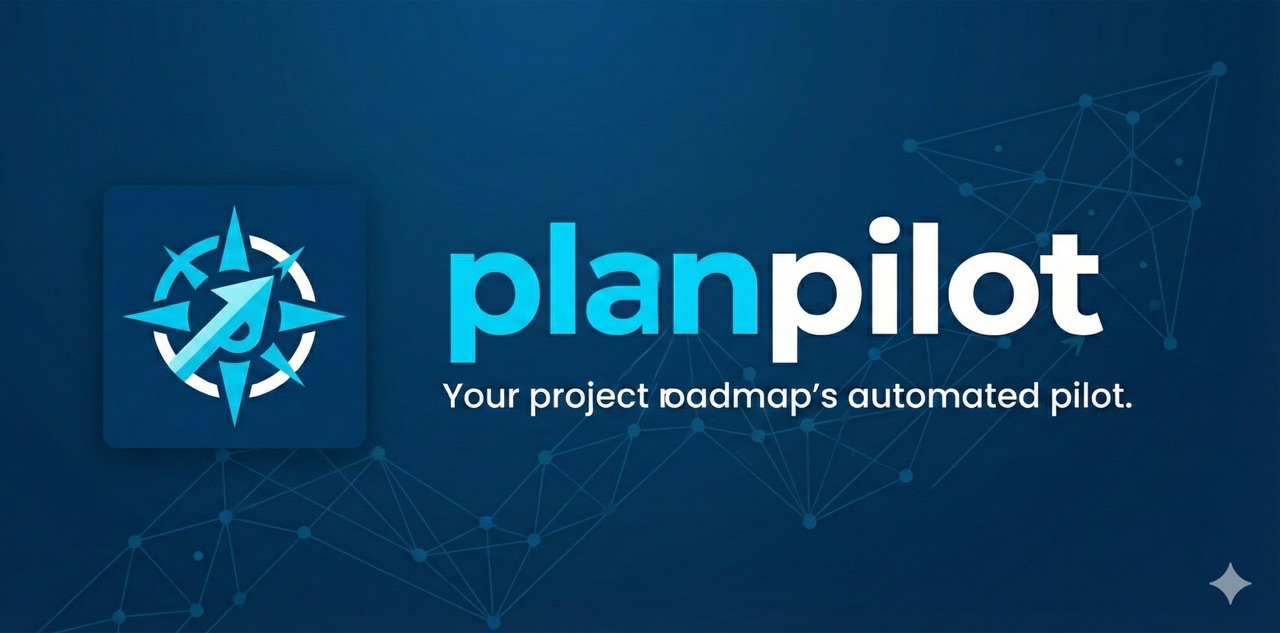
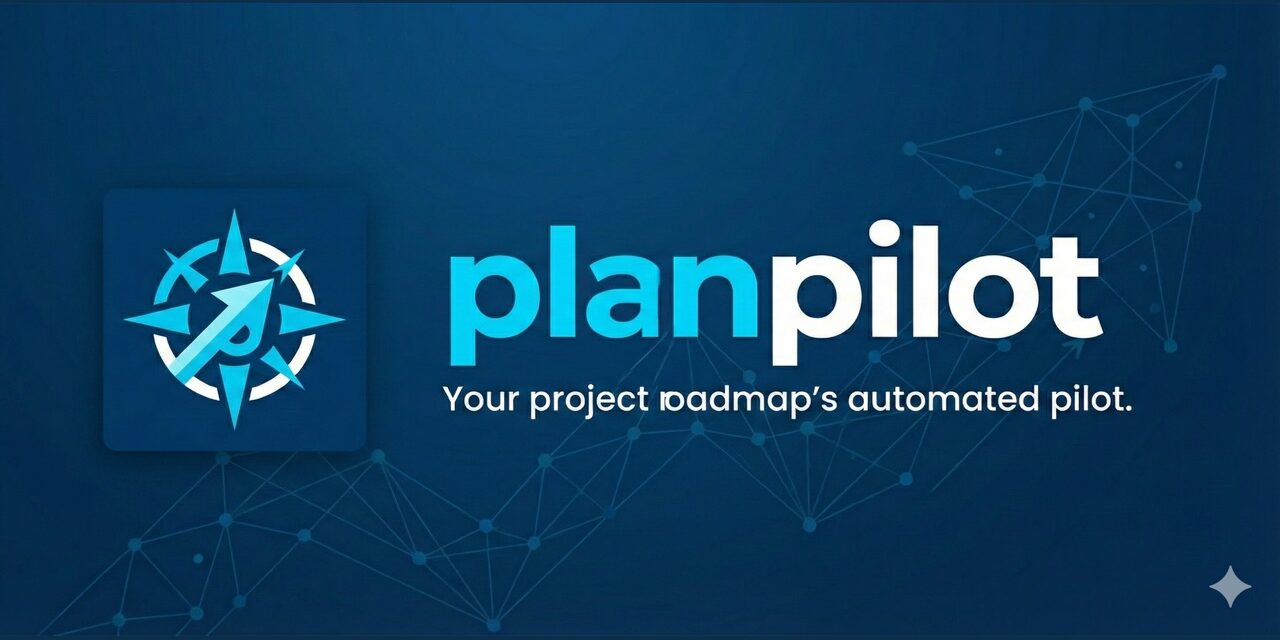
chore: make social preview image 1280x640

diff --git a/assets/branding/navigator/README.md b/assets/branding/navigator/README.md
@@ -6,7 +6,7 @@ This directory contains the **Navigator** branding assets.
 
 - **`navigator-social-preview.png`**: Social preview banner (**1280×633**, optimized).
 - **`navigator-social-preview-1280x640.png`**: Legacy resized PNG (**1280×633**, kept for compatibility).
-- **`navigator-social-preview-1280x640.jpg`**: Recommended for GitHub **Social preview** upload (well under 1MB).
+- **`navigator-social-preview-1280x640.jpg`**: Recommended for GitHub **Social preview** upload (**1280×640**, well under 1MB).
 - **`navigator-square.png`**: Square logo (**1024×1024**, optimized).
 - **`navigator-square-512.png`**: Square logo (**512×512**, optimized).
 - **`navigator-square-512.jpg`**: Optional JPEG avatar (tiny; under 1MB).
